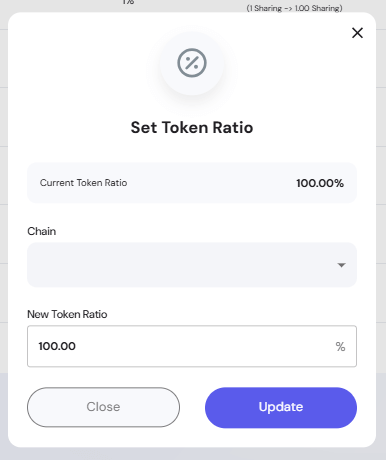
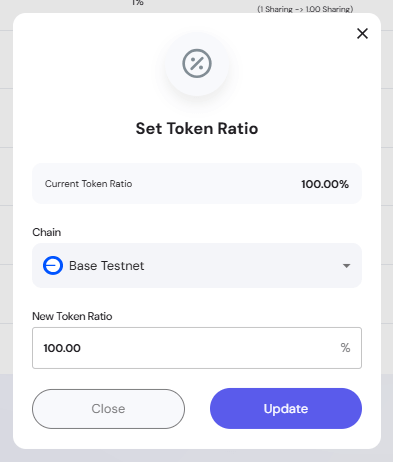
fix(documentation): staking improvements - admin settings. #211

diff --git a/docs/engage/front-end-ui/admin-section/staking-settings.md b/docs/engage/front-end-ui/admin-section/staking-settings.md
@@ -20,7 +20,7 @@ The **Manage Staking Pools** table displays all existing pools, including both a
 - **Collateral** – Token required to stake  
 - **APR & Unlocked APR** – Annual reward rate (locked vs. unlocked)  
 - **Token Ratio** – Staking-to-reward conversion rate  
-- **Lock** – Duration of the staking period (days)  
+- **Lock** – Duration of the staking period
 - **Closing** – Pool closing date/time  
 - **Rewards Until** – Date when reward distribution ends  
 - **Reward Token** – Token used for rewards  
@@ -128,6 +128,6 @@ To ensure staking pools are configured properly, the system enforces the followi
 - **APR / APR After Unlock** – Cannot exceed 100%. `APR After Unlock` must not be greater than base APR.  
 - **Staking Limits** – `Max Staked Amount` must be greater than `Min Staked Amount`.  
 - **Reward End Time** – Must be later than `Staking End Time + Lock Duration`.  
-- **Token Ratio** – Must be a valid number between 0% and 100% (cannot be 0).  
+- **Token Ratio** – Must be a valid number between 0% and 100%.  
 
 > If validation rules are not met, Admins cannot proceed with creating or editing a pool until corrections are made.
